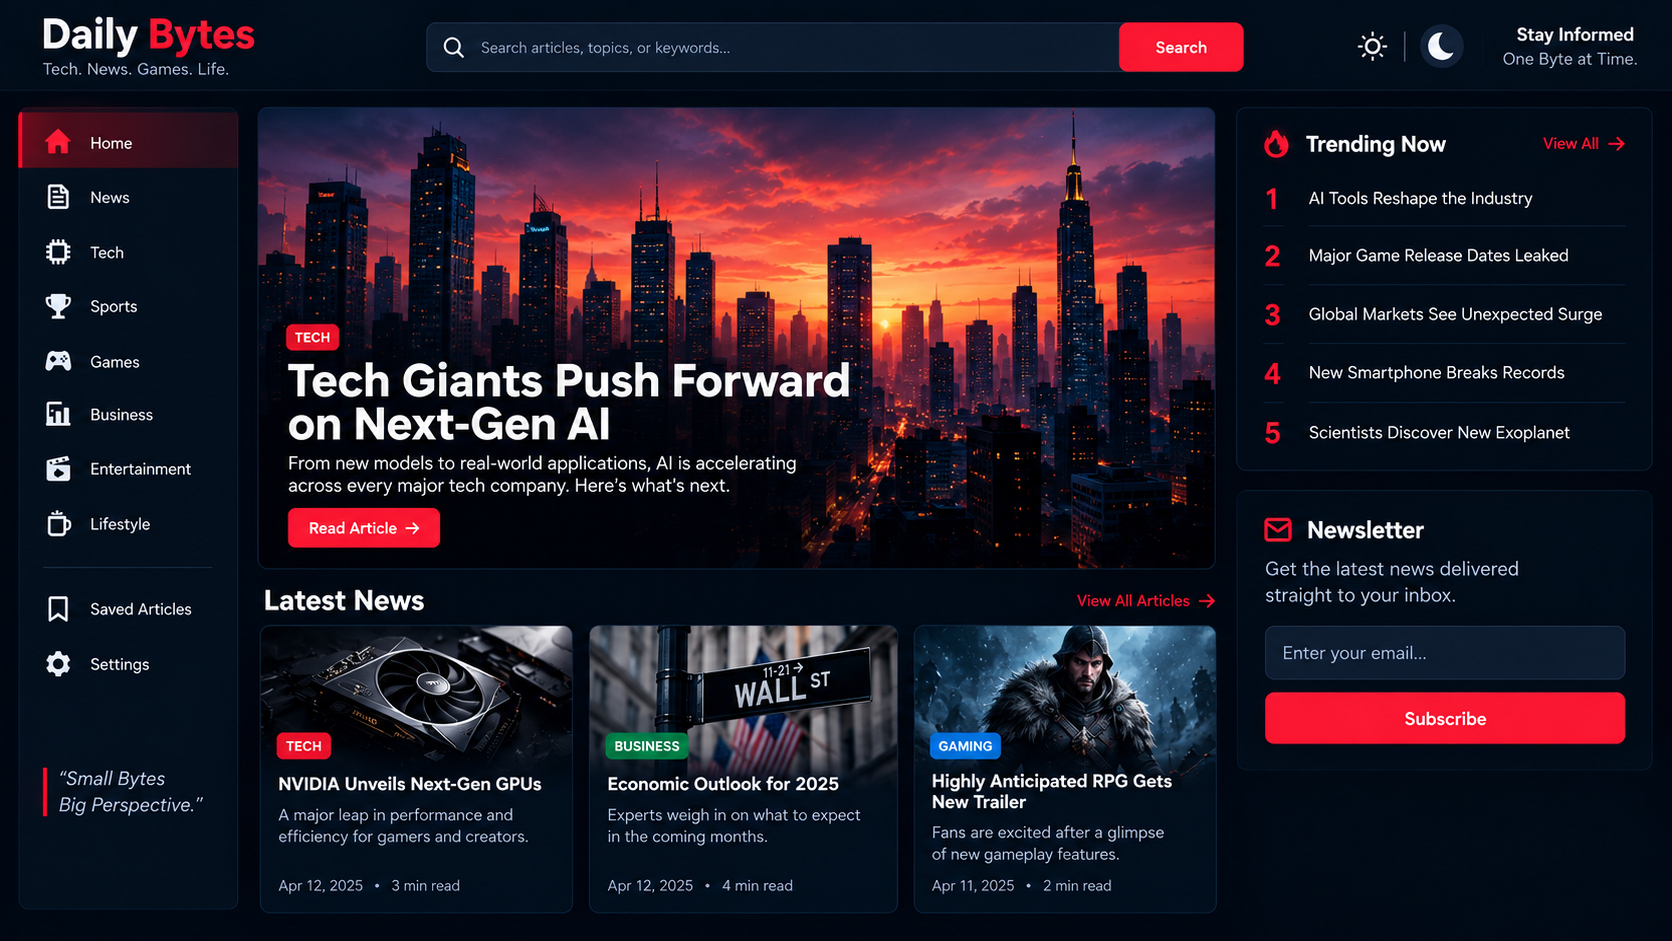
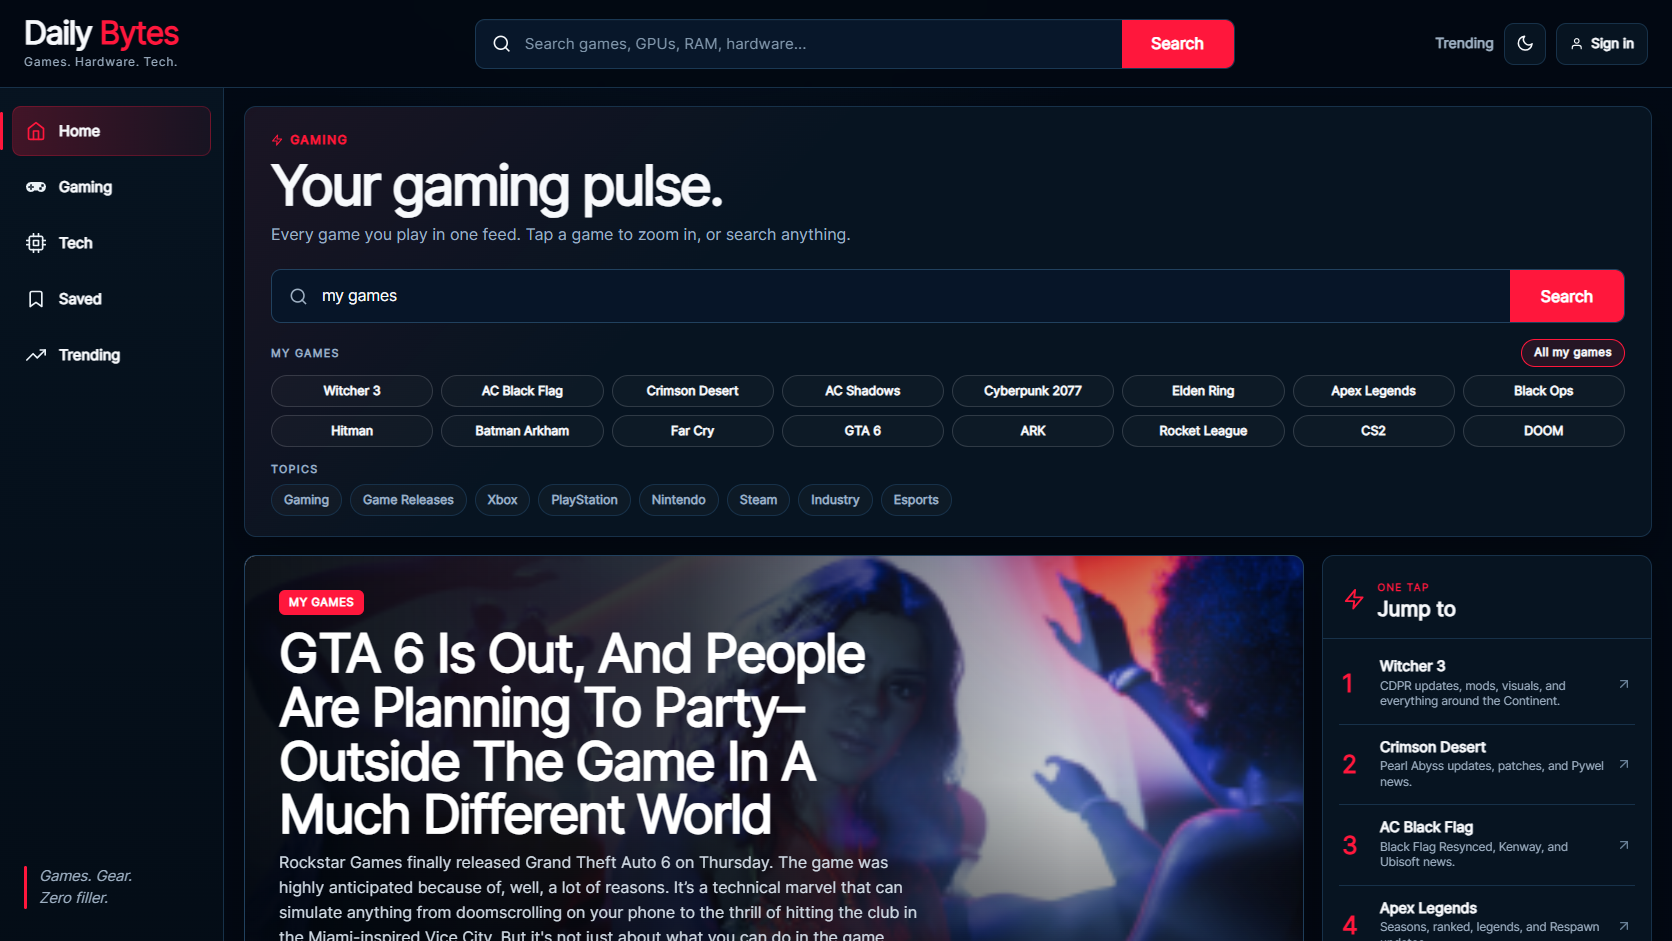
Featured projects: The Daily Bytes replaces the Mithrandir showcase
Zombies Hub 2.0, Fairway Finder and The Daily Bytes are the three featured case studies. The Daily Bytes gets a real capture of the live site in place of a generated mockup, and a case study written from its repo README (server-side news proxy, RSS fallback, cache, accounts, demo); its role line states it is a fork of n6dd's project. The Mithrandir case study and route are removed; its plain Work card stays, without a case-study link. Sitemap, metadata, README and route tests updated.

diff --git a/src/data/caseStudyStories.js b/src/data/caseStudyStories.js
@@ -2,7 +2,6 @@
 // stays out of the main bundle. Summaries live in ./caseStudies.js.
 
 import { caseStudies } from './caseStudies';
-import { screenshotFor } from './screenshots';
 
 const stories = {
   'zombies-hub-2': {
@@ -31,67 +30,20 @@ const stories = {
     outcome:
       'A single-page app that replaces four separate planning tools, with a responsive interface that works on the phone in your golf bag.',
   },
-  mithrandir: {
-    imageAlt:
-      'Mithrandir artwork: a wizard at a desk facing a monitor showing the Mithrandir Claude Code Command Center, with the Gandalf Main Chat, a Working Now list of three repositories and a glowing crystal orb.',
-    imageCaption:
-      'Mithrandir, my Claude Code command center (artwork). The usage panel below is redrawn from a real capture.',
-    gallery: [
-      {
-        ...screenshotFor('mithrandir-usage'),
-        alt: 'The usage panel, redrawn for clarity from a real capture: no 5-hour reading since the window reset, the 7-day window at 78%, and the three modes (Eco, Normal, Full Send).',
-      },
-    ],
+  'daily-bytes': {
     problem:
-      'I run several real projects at once with AI coding agents, and I had become the bottleneck between them. I picked the repository and branch, re-explained context every session, juggled separate Claude chats, watched usage limits by hand, ran checks, opened previews, and pasted huge summaries from one chat to the next whenever a conversation grew too long. The agents were fast; the workflow around them was not.',
+      'Gaming and PC-hardware news is spread across general news sites and noisy feeds. I wanted one dashboard built around the topics I actually follow (games, Witcher and CDPR, NVIDIA RTX and AMD Radeon, GPU, RAM and SSD pricing) that could use a news API without ever putting its key in the browser.',
     approach: [
-      'One orchestrator, many isolated workers. I talk to a single chat, Gandalf. It plans and delegates, but cannot touch code itself; each task goes to a Claude Code worker that runs inside one repository on my PC, working directly with that project’s local files, tests and git.',
-      'Guardrails that are enforced, not requested. Workers may edit, test, build, commit and push feature branches; force-pushes, pushes to main, branch deletion and destructive git commands are refused by a pre-command hook. Nothing reaches main or production without my approval.',
-      'Usage limits as a scheduling input. Every Claude Code turn reports real 5-hour and 7-day usage; Mithrandir records it, and its modes (Eco, Normal, Full Send) cap parallel workers and hold new work near the limit instead of starting something that would be cut off halfway.',
-      'Memory that outlives any chat. Each project keeps a small tracked “brain” (Now, Next, Decisions, Rejected, Watch), and long-term history lives in MongoDB Atlas, the Main Memory, with facts dated, linked to their source and marked as verified or only reported. A new assistant session, Claude or ChatGPT, can look up just what it needs instead of being handed a wall of summary.',
-      'Chats that never wear out. Mithrandir tracks how big Gandalf’s session is from real token counts. When it gets long, Gandalf writes a structured handoff and continues in a fresh session (Alpha → Bravo → Charlie), so the work carries on without re-reading a huge history on every turn.',
-      'Verification in the loop. Live Preview runs a project’s dev server behind an element picker, so clicking part of the page becomes a precise fix request to that project’s worker; CircleCI results and a Needs-you list sit on the same screen.',
+      'A React and TypeScript client (Vite) talks only to an Express and TypeScript server. The server proxies Mediastack with the key held in an environment variable, so no provider key reaches the browser or the repo.',
+      'When Mediastack is rate limited, failing or empty, free RSS feeds (IGN, PC Gamer, GameSpot, Eurogamer and others) fill in. A 15-minute bounded cache with a stale-cache fallback means a provider hiccup does not blank the page.',
+      'Server-side relevance ranking and deduplication handle keyword matches, duplicate headlines and URLs, and freshness. Gaming and Tech hubs, global search, trending and category feeds all have real loading, error, empty, retry and pagination states.',
+      'Reader accounts use MongoDB Atlas, bcrypt-hashed passwords (cost 12) and 12-hour signed JWTs, with saved articles protected by a per-user unique URL. A one-click demo session is issued by the server, so visitors can try it without signing up.',
+      'Abuse limits and checks: rate limits on login, register, demo and news routes, a 100 KB request cap, a restrictive set of security headers, and a gated build that runs the client and server tests, with CI running secret scanning and a dependency audit on every pull request.',
     ],
     outcome:
-      'Mithrandir v1 runs on my PC every day. I describe what I want once, and the right worker does it in the right repository, within my plan’s limits, with its results and the project’s memory waiting for the next session. It is how I build my other projects, including this portfolio.',
-    vision: {
-      intro:
-        'Mithrandir is the hub of a bigger personal system. The goal is a ChatGPT-style assistant I can use anywhere, which does the real work on my own machines and remembers everything. Each piece below is marked honestly with where it stands.',
-      items: [
-        {
-          title: 'Smart model routing',
-          status: 'In progress',
-          text: 'Gandalf picks the model each task needs (Haiku for quick mechanical jobs, Sonnet for everyday work, Opus for hard problems) and hands off long chats automatically, saving each handoff to Main Memory.',
-        },
-        {
-          title: 'Mithrandir in my pocket',
-          status: 'Planned',
-          text: 'A phone app that feels like ChatGPT but drives my own setup: start or steer work from anywhere, approve merges, and let Mithrandir create, refresh, store and clean up chats on its own.',
-        },
-        {
-          title: 'Raspberry Pi “Shire” node',
-          status: 'Planned',
-          text: 'An always-on Pi that queues work while my PC sleeps, wakes it with Wake-on-LAN, runs schedules and light coding or bot jobs overnight, and coordinates backups with its own credentials.',
-        },
-        {
-          title: 'VEGAS Pro 27 through MCP',
-          status: 'Planned',
-          text: 'Claude reaching my video editor: Mithrandir hands footage jobs to my Sony VEGAS automation project, which indexes clips, finds highlights and drives VEGAS Pro 27 through a VEGAS MCP bridge to assemble rough cuts. Source footage is never modified.',
-        },
-        {
-          title: 'Capture to YouTube',
-          status: 'Planned',
-          text: 'Gameplay captured with NVIDIA Instant Replay or OBS flows through indexing and a VEGAS rough cut to a review step, then on to YouTube, with the Pi keeping the pipeline moving.',
-        },
-        {
-          title: 'One MCP router',
-          status: 'Planned',
-          text: 'A single router between Gandalf and every tool (GitHub, Render, MongoDB, CircleCI, VEGAS, Blender, the Pi) that handles permissions, health checks, logging and usage limits in one place.',
-        },
-      ],
-    },
+      'A live dashboard on Render that visitors can open and use right away through the demo session, and that keeps showing stories when the main news provider fails.',
     currentStatus:
-      'Everything in “What I built” works today. Items marked In progress are built and tested but not yet released; Planned items are designed but not built, and they are not presented here as features.',
+      'Live on Render’s free plan, so the first visit after a quiet spell can take up to a minute to wake up. The repository is a fork of n6dd’s The-Daily-Bytes and keeps the original author’s commits.',
   },
   'clash-automation': {
     problem:

diff --git a/src/data/caseStudies.js b/src/data/caseStudies.js
@@ -8,7 +8,7 @@
 // carries only these four, not the whole Work library (see screenshots.js).
 import zombiesHubArt from '../assets/photos/generated/Zombies Hub.png.js';
 import fairwayFinderArt from '../assets/photos/generated/Fairway Finder.png.js';
-import mithrandirArt from '../assets/photos/generated/Mithrandir.png.js';
+import dailyBytesArt from '../assets/photos/generated/Daily Bytes.png.js';
 import clashSuiteArt from '../assets/photos/generated/Clash Suite.webp.js';
 
 export const caseStudies = [
@@ -51,21 +51,22 @@ export const caseStudies = [
     ],
   },
   {
-    slug: 'mithrandir',
+    slug: 'daily-bytes',
     featured: true,
-    kicker: 'AI orchestration · Personal command center',
-    title: 'Mithrandir',
-    tagline: 'My personal AI command center: one chat that runs Claude Code across every project, remembers what matters in MongoDB and works inside my usage limits.',
-    image: mithrandirArt,
-    role: 'Sole designer and builder: architecture, orchestration, memory model and interface, built with Claude Code as an ongoing project.',
-    stack: ['React', 'TypeScript', 'Node.js', 'Claude Code', 'MongoDB Atlas', 'CircleCI', 'MCP'],
-    // The repository is private, so there is no public link to offer.
-    links: [],
-    sourceNote: 'The source code is in a private repository.',
+    kicker: 'Full-stack · React + Express',
+    title: 'The Daily Bytes',
+    tagline: 'A gaming and tech news dashboard with a server-side news proxy, MongoDB reader accounts and a one-click demo.',
+    image: dailyBytesArt,
+    role: 'Maintainer of this fork of n6dd’s The-Daily-Bytes, which keeps the original author’s commits in its history.',
+    stack: ['React', 'TypeScript', 'Vite', 'Express', 'MongoDB Atlas', 'Mediastack', 'Render'],
+    links: [
+      { label: 'Source on GitHub', href: 'https://github.com/PHTMGatt/The-Daily-Bytes', primary: true },
+      { label: 'Live site', href: 'https://the-daily-bytes-o4jo.onrender.com' },
+    ],
     highlights: [
-      { value: '1 chat', label: 'orchestrating an isolated Claude Code worker per repository' },
-      { value: '5h · 7d', label: 'real usage readings that schedule work around the limits' },
-      { value: 'α → β', label: 'session rollover: a long chat hands off to a fresh session and keeps going' },
+      { value: '15 min', label: 'bounded news cache, with a stale-cache fallback' },
+      { value: 'RSS', label: 'free feed fallback when the news API is rate limited or empty' },
+      { value: '0', label: 'provider keys in the browser: every call goes through the server' },
     ],
   },
   {

diff --git a/src/data/pageMetadata.js b/src/data/pageMetadata.js
@@ -18,9 +18,9 @@ export const pageMetadata = {
     title: 'Fairway Finder case study — Bryen Gatt',
     description: 'A golf trip planner that puts courses, routes, weather and handicaps in one app. A full-stack project case study by Bryen Gatt.',
   },
-  '/work/mithrandir': {
-    title: 'Mithrandir case study — Bryen Gatt',
-    description: 'A local command center where one orchestrator chat dispatches isolated Claude Code workers, one per repository. A systems project case study by Bryen Gatt.',
+  '/work/daily-bytes': {
+    title: 'The Daily Bytes case study — Bryen Gatt',
+    description: 'A gaming and tech news dashboard with a server-side news proxy, MongoDB reader accounts and a one-click demo. A full-stack project case study by Bryen Gatt.',
   },
   '/work/clash-automation': {
     title: 'Clash of Clans Discord Suite case study — Bryen Gatt',

diff --git a/src/data/projects.js b/src/data/projects.js
@@ -52,7 +52,6 @@ export const projects = [
     stack: ['TypeScript', 'Node.js', 'MongoDB', 'Claude Code'],
     image: screenshotFor('mithrandir'),
     links: {},
-    caseStudy: 'mithrandir',
   },
   {
     id: 'war-oracle',
@@ -118,6 +117,7 @@ export const projects = [
     stack: ['React', 'Vite', 'Express', 'MongoDB'],
     image: screenshotFor('daily-bytes'),
     links: { repo: 'https://github.com/PHTMGatt/The-Daily-Bytes', live: 'https://the-daily-bytes-o4jo.onrender.com' },
+    caseStudy: 'daily-bytes',
   },
   {
     id: 'pc-build-tracker',

diff --git a/README.md b/README.md
@@ -24,7 +24,7 @@ Short on time? Read one case study. Each covers the problem, what I built, the d
 |---|---|---|
 | **Zombies Hub 2.0** | Seven separate guide sites rebuilt as one React app with CI-gated deploys. Solo build. | [Case study](https://one2-react-portfolio.onrender.com/work/zombies-hub-2) · [Live](https://zombies-hub-2-0.onrender.com/) · [Source](https://github.com/PHTMGatt/Zombies-Hub-2.0) |
 | **Fairway Finder** | MERN + GraphQL golf trip planner. Primary developer on a five-person team. | [Case study](https://one2-react-portfolio.onrender.com/work/fairway-finder) · [Live](https://fairway-finder.onrender.com) · [Source](https://github.com/PHTMGatt/Fairway-Finder) |
-| **Mithrandir** | A personal command center that coordinates Claude Code workers across repositories, with MongoDB memory. | [Case study](https://one2-react-portfolio.onrender.com/work/mithrandir) (private source) |
+| **The Daily Bytes** | Gaming and tech news dashboard: a server-side news proxy with RSS fallback, MongoDB reader accounts and a one-click demo. A fork of n6dd's project; I maintain it. | [Case study](https://one2-react-portfolio.onrender.com/work/daily-bytes) · [Live](https://the-daily-bytes-o4jo.onrender.com) · [Source](https://github.com/PHTMGatt/The-Daily-Bytes) |
 | **Clash of Clans Discord Suite** | Two Discord bots (War Oracle and Legacy Bot) and a Raspberry Pi installer that sets each up as its own systemd service. Physical Pi deployment is not yet verified. | [Case study](https://one2-react-portfolio.onrender.com/work/clash-automation) · [Source](https://github.com/PHTMGatt/War-Oracle-Bot) |
 
 Every other project is on the [Work page](https://one2-react-portfolio.onrender.com/work), with its source first, a live demo where one exists, and an honest status label (legacy, paused, inactive).
